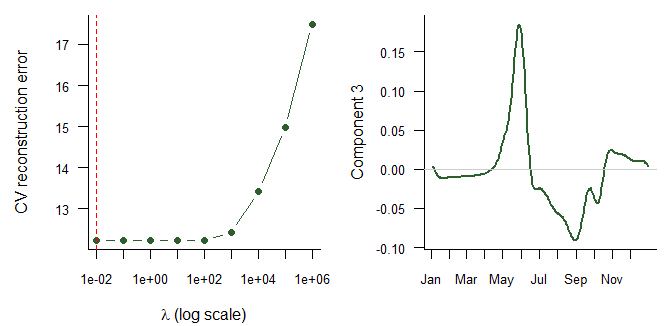
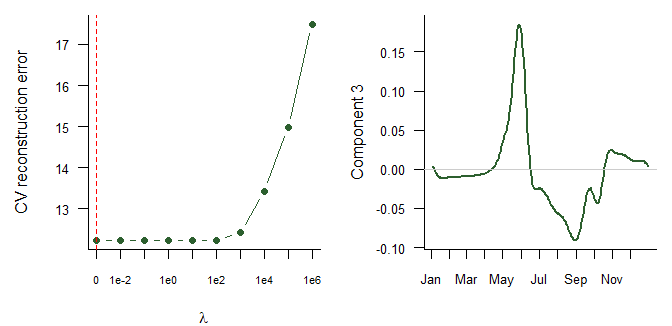
Add lambda = 0 baseline and soften CV conclusion

diff --git a/evi_fda.md b/evi_fda.md
@@ -92,8 +92,11 @@ so a larger $\lambda$ gives smoother components. Here $\lambda$ was
 chosen by **10-fold cross-validation**: for each candidate, the
 components were fitted on nine tenths of the curves, the remaining tenth
 were rebuilt from the first three components by least squares, and the
-squared reconstruction error was summed. The $\lambda$ with the smallest
-total error was used.
+squared reconstruction error was summed. The candidates included
+$\lambda = 0$ (no penalty), and a penalty was used only if it cut the
+error by more than 1% compared with no penalty. The curves were smoothed
+before this step, so this tests the penalty on the components given that
+smoothing, not the whole workflow.
 
 ## 4. Results
 
@@ -194,16 +197,18 @@ the chosen penalty (green).
 
 </div>
 
-Cross-validation found no benefit from smoothing the components:
-penalties up to $\lambda$ = 100 rebuild unseen curves equally well, and
-larger penalties make the reconstruction worse. The smallest penalty on
-the grid ($\lambda$ = 0.01) was therefore used, and the penalised and
-unpenalised third components lie on top of each other. The sharp feature
-in that component around May is treated as real structure, reflecting
-genuinely abrupt differences in green-up timing between locations,
-rather than noise. Without a penalty, the first three components explain
-84.2% of the variation
-(<a href="#fig-cv" class="quarto-xref">Figure 6</a>).
+Cross-validation found no benefit from smoothing the components: no
+penalty and penalties up to $\lambda$ = 100 rebuild held-out curves
+equally well, and larger penalties make the reconstruction worse, so the
+components were left unpenalised. Because the curves were already
+smoothed before this step, this tests the penalty on the components
+given that smoothing, not the whole workflow. Heavier penalties would
+flatten sharp features such as the May peak in the third component, so
+the result is consistent with that feature reflecting real differences
+in green-up timing between locations, though it does not prove it, and
+eight-day sampling limits how precisely that timing can be resolved.
+Without a penalty, the first three components explain 84.2% of the
+variation (<a href="#fig-cv" class="quarto-xref">Figure 6</a>).
 
 ## 5. Limitations
 
